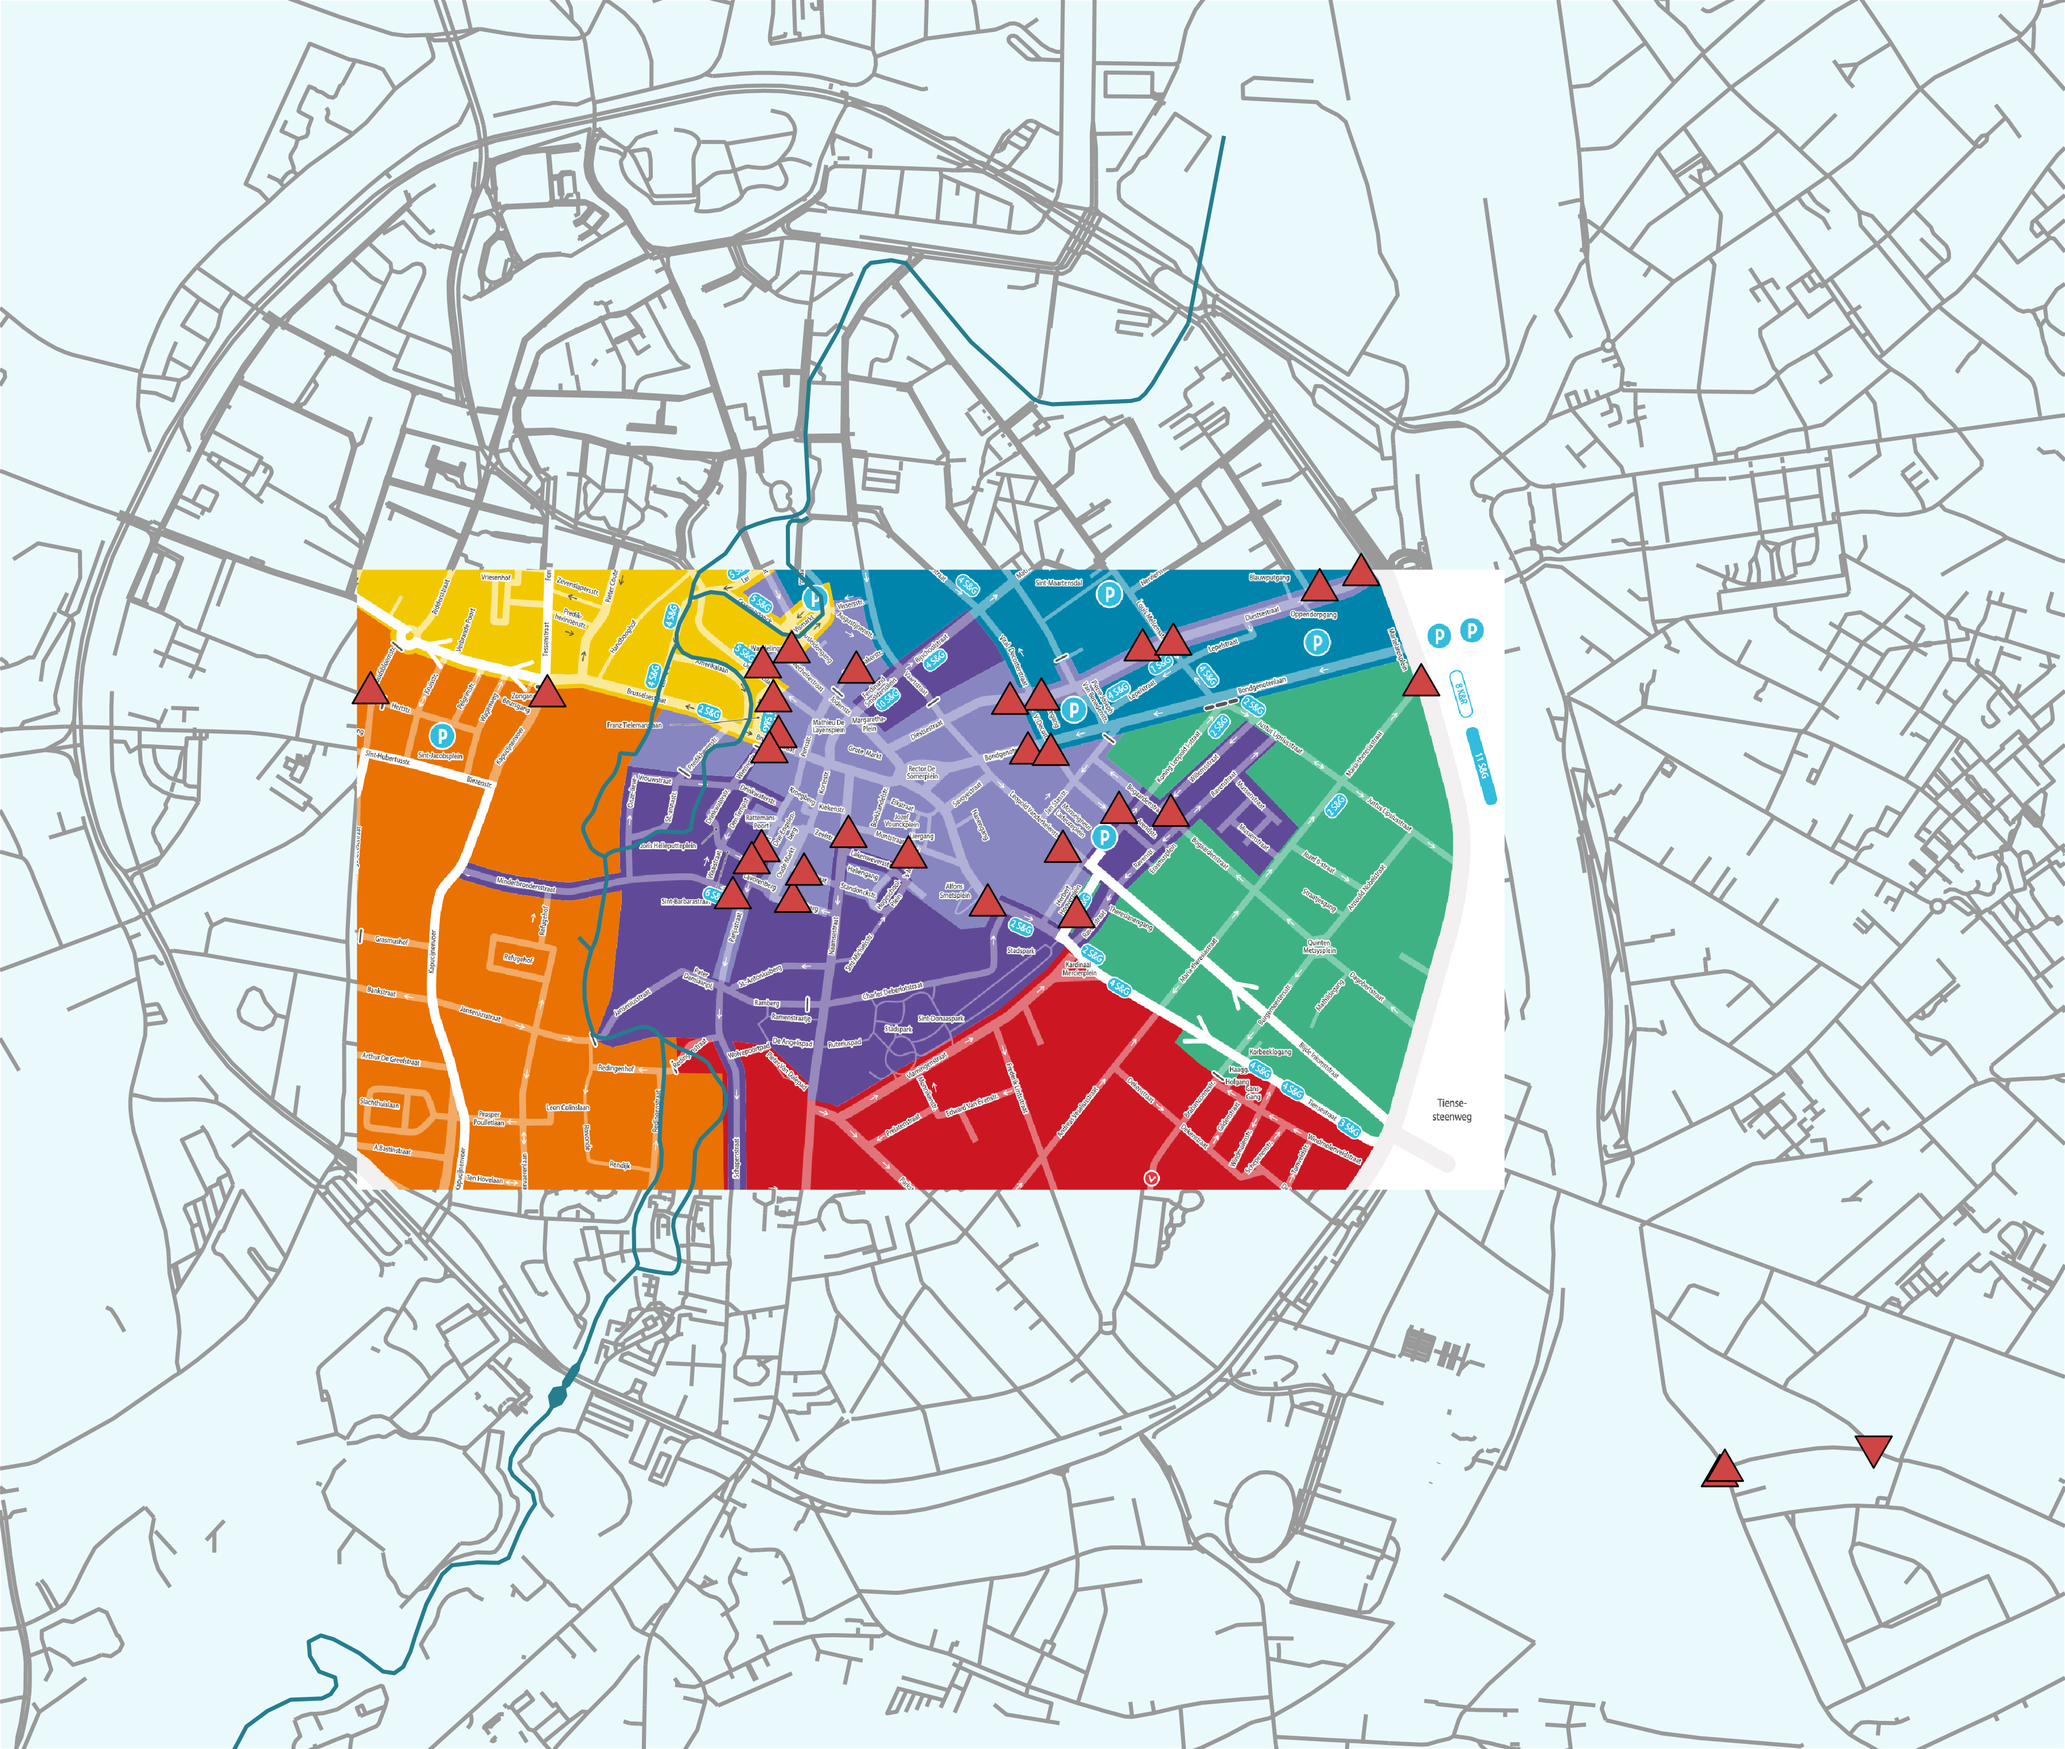
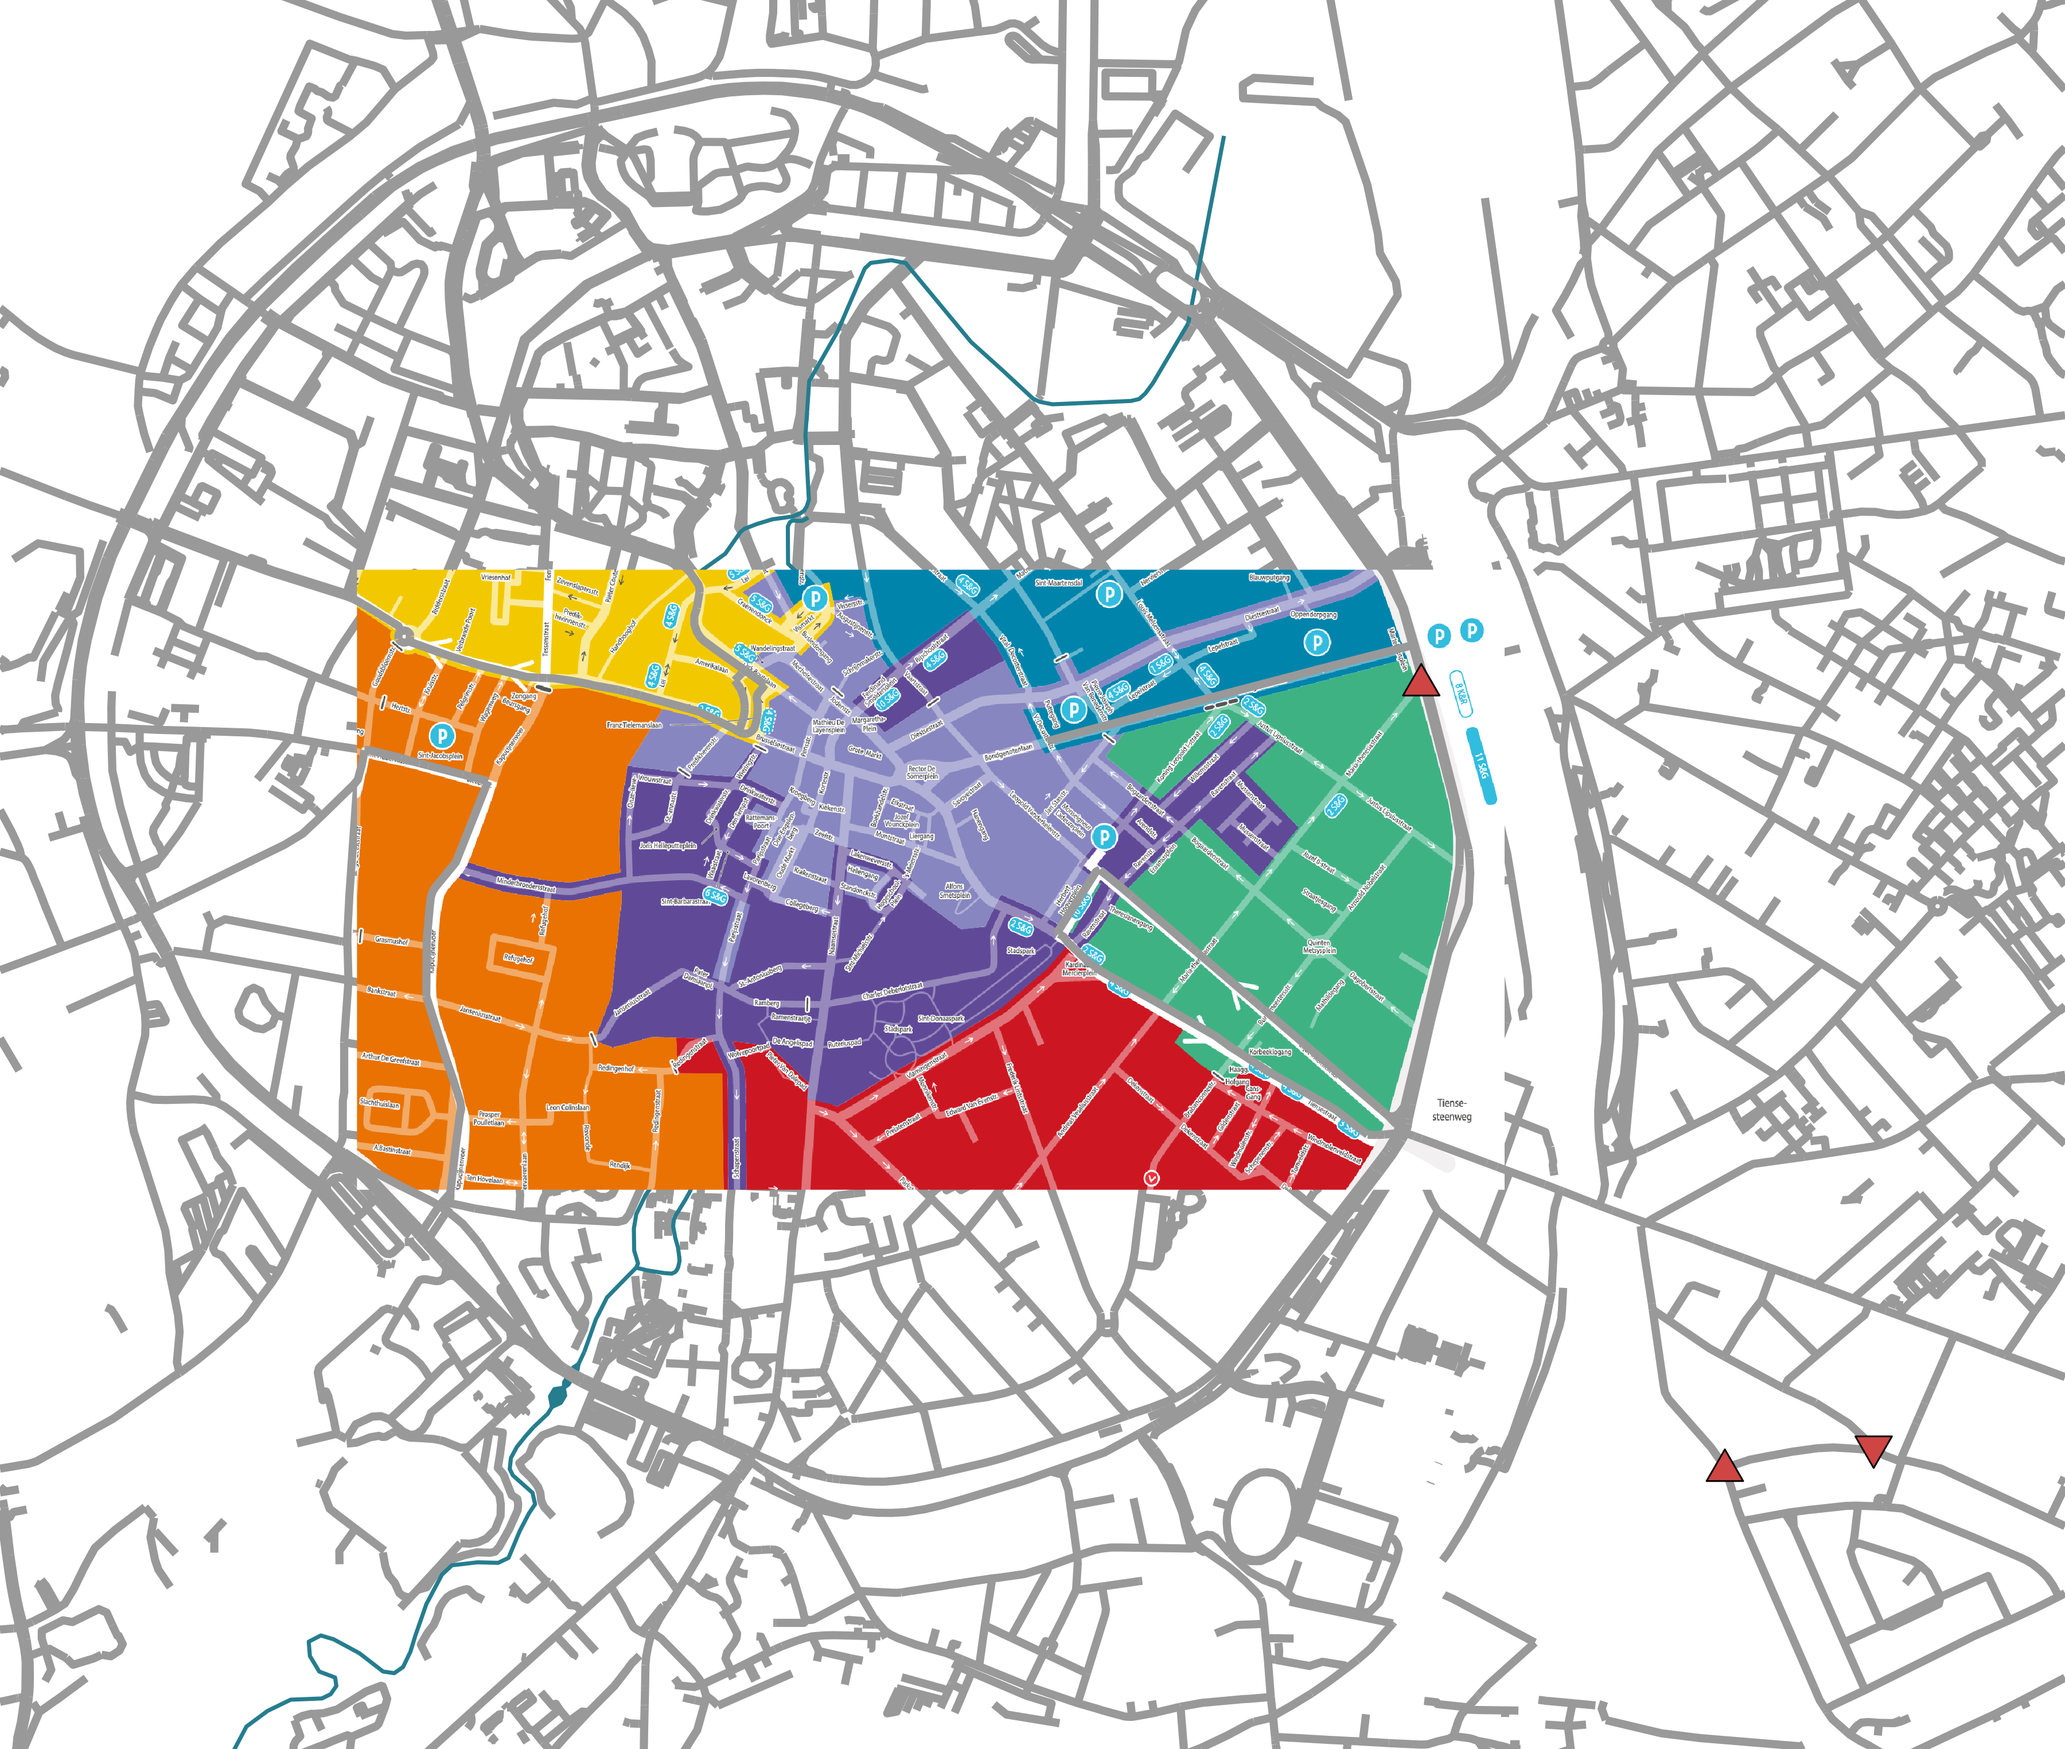
More cleaning!

diff --git a/trimImages.py b/trimImages.py
@@ -2,7 +2,17 @@
 # From https://stackoverflow.com/questions/10615901/trim-whitespace-using-pil
 import sys
 from PIL import Image, ImageChops
-
+print("Either './trimImages.py -all' for all images or give a file name for a single image.")
+imgNames = ["wandeling2020.png",
+        "map2005small.png",
+        "map2013small.png",
+        "map2020small.png",
+        "map2005.png",
+        "map2013.png",
+        "map2020.png",
+        "map2020bis.png",
+        "mapANPR2020small.png",
+        "mapANPR2020.png"]
 def trim(im):
     bg = Image.new(im.mode, im.size, im.getpixel((0,0)))
     diff = ImageChops.difference(im, bg)
@@ -11,6 +21,16 @@ def trim(im):
     if bbox:
         return im.crop(bbox)
 
-im = Image.open(sys.argv[1])
-im = trim(im)
-im.save("trimmed_"+sys.argv[1])
+def trimFile(fn):
+    im = Image.open(fn)
+    im = trim(im)
+    newFN = "trimmed_"+fn
+    im.save(newFN)
+    print("Saved file " + newFN)
+
+if str(sys.argv[1]) == "-all":
+    for i in imgNames:
+        print("Processing: " + i)
+        trimFile(i)
+else: 
+    trimFile(sys.argv[1])

diff --git a/addLogo.py b/addLogo.py
@@ -9,15 +9,15 @@ overlayText = "De lokale politie zet mobiele camera's in op heel het grondgebied
 ANPRSmallText = "3 werkende ANPR-camera's aan Leuven station & tiensestwg."
 ANPRText = "Bij elke driehoek staan ANPR-camera's."
 runFlag = [True,
-           False,
-           False,
-           False,
-           False,
-           False,
-           False,
-           False,
-           False,
-           False]
+           True,
+           True,
+           True,
+           True,
+           True,
+           True,
+           True,
+           True,
+           True]
 imgNames = ["trimmed_wandeling2020.png",
         "trimmed_map2005small.png",
         "trimmed_map2013small.png",
